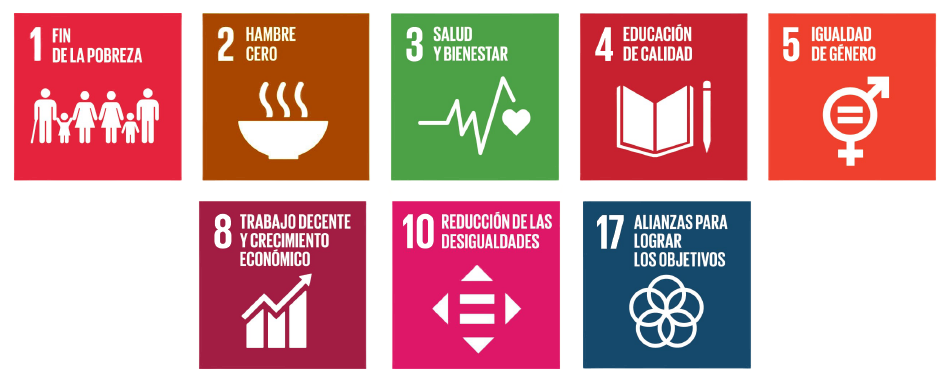
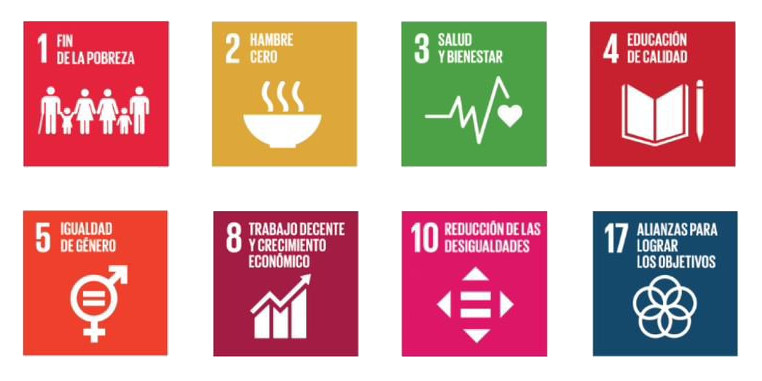
avanzando un poco con todo

diff --git a/src/index.css b/src/index.css
@@ -78,7 +78,7 @@ header .dropdown-item a{
 }
 main{
   min-height: 75dvh;
-  padding: 30px 0;
+  padding: 30px 0px;
 }
 main .dropdown-item{
   width: auto;
@@ -168,12 +168,26 @@ main a{
   font-weight: bold;
   transition: background-color .1s;
 }
+main .donar{
+  display: flex;
+  flex-direction: column;
+  justify-content: center;
+}
+main .donar a{
+  margin: 7px 0 0 50px;
+}
+main .anotate{
+  display: inline-block;
+}
 main .obras p{
-  padding: 0;
+  padding: 0 15px;
 }
 main .obras article{
   display: flex;
   flex-direction: column;
+}
+main .obras .dropdown-item{
+  margin: 0 0 0 25px;
 }
 main a:hover{
   background-color: #ffa434;
@@ -217,6 +231,13 @@ main .alone-fundacion .fundacion{
   gap: 20px;
   text-align: center;
 }
+main .alone-donar div{
+  margin: 0;
+  margin-bottom: 30px;
+}
+main .alone-donar div p{
+  margin: 0;
+}
 main section{
   margin-top: 0px;
 }
@@ -230,10 +251,41 @@ main .seParte{
   justify-content: center;
   gap: 10px;
 }
+main .ods{
+  width: 50%;
+  margin-bottom: 15px;
+}
+main .ods-banner{
+  width: 100%;
+}
 footer{
   box-shadow: 0 -5px 15px grey;
   background-color: #474746;
   padding: 20px 0;
+}
+footer #jpf{
+  text-decoration: none;
+  position: absolute;
+  width: 100%;
+  text-align: center;
+  font-family: "Special Elite";
+  color: black;
+  font-size: 15px;
+  padding: 10px 0;
+  background-color: #474746;
+}
+footer #jpf a{
+  color: #EE7D00;
+  text-decoration: none;
+  font-family: "Special Elite";
+  font-size: 15px;
+}
+footer .mapa{
+  height: 200px;
+  color: white;
+  display: flex;
+  flex-direction: column;
+  text-align: center;
 }
 footer .content{
   display: flex;
@@ -244,8 +296,7 @@ footer .content{
 }
 footer .redes{
   display: flex;
-  justify-content: center;
-  align-items: center;
+  flex-direction: column;
   gap: 20px;
   padding: 10px 0;
 }
@@ -258,9 +309,10 @@ footer nav a:hover{
 footer .nav-foot{
   display: flex;
   flex-wrap: wrap;
-  justify-content: space-evenly;
+  justify-content: space-between;
   align-items: center;
-  gap: 20px;
+  flex-direction: column;
+  gap: 15px;
 }
 footer .nav-foot img{
   width: 100px;
@@ -305,6 +357,9 @@ footer .logos{
   main .quienes{
     margin: 50px 50px 0 50px;
     padding: 20px 10px !important;
+  }
+  footer .nav-foot{
+    flex-direction: row;
   }
 }
 
@@ -355,7 +410,7 @@ footer .logos{
     transition: all .5s;
   }
   footer .redes{
-    flex-direction: row;
+    flex-direction: column;
     gap: 20px;
   }
   footer .nav-foot nav{
@@ -365,9 +420,10 @@ footer .logos{
   }
   footer .nav-foot{
     justify-content: space-evenly;
+    margin-bottom: 15px;
   }
   main{
-    min-height: 75dvh;
+    min-height: 59.3dvh;
   }
   header .donar:hover{
     color: black !important;

diff --git a/src/components/components/footer/Foot.jsx b/src/components/components/footer/Foot.jsx
@@ -11,18 +11,24 @@ const Foot = () => {
             <img src="/img/Logo3.png" alt="logo" />
           </div>
         </Link>
-        <nav>
-          <a href="">Inicio</a>
-          <a href="">Acerca de</a>
-          <a href="">Obras</a>
-          <a href="">Contacto</a>
-        </nav>
+        <div className="mapa">
+          <iframe className='mapa' src="https://www.google.com/maps/embed?pb=!1m18!1m12!1m3!1d3282.390590591876!2d-58.6251648!3d-34.6448375!2m3!1f0!2f0!3f0!3m2!1i1024!2i768!4f13.1!3m3!1m2!1s0x95bcb92a8aab6979%3A0x5e8435a0e0fcc9bc!2sFundaci%C3%B3n%20Casa%20de%20Jes%C3%BAs!5e0!3m2!1ses-419!2sar!4v1715813108321!5m2!1ses-419!2sar" allowfullscreen="" loading="lazy" referrerpolicy="no-referrer-when-downgrade"></iframe>
+          <div>
+            Adolfo Saldias 351
+          </div>
+        </div>
         <div className='redes'>
-          <a href="https://www.facebook.com/fundacioncasadejesus" target='_blank'><img className='red' src="/img/facebook-icon.png" alt="facebook" /></a>
-          <a href="https://www.instagram.com/fcasadejesus/?hl=es-la" target='_blank'><img className='red' src="/img/instagram-icon.png" alt="instagram" /></a>
-          <a href="https://twitter.com/fcasadejesus" target='_blank'><img className='red' src="/img/twitter-icon.png" alt="twitter" /></a>
+          <a href="tel:+5491140715733" target='_blank'><img className='red' src="/img/telefono.png" alt="telefono" /> 011-154071-5733</a>
+          <a href="mailto:info@casadejesus.org" target='_blank'><img className='red' src="/img/mail.png" alt="mail" /> info@casadejesus.org</a>
+          <a href="https://wa.me/+5491140715733" target='_blank'><img className='red' src="/img/whatsapp.png" alt="whatsapp" /> +54 9 11-4071-5733</a>
+        </div>
+        <div className='redes'>
+          <a href="https://www.facebook.com/fundacioncasadejesus" target='_blank'><img className='red' src="/img/facebook-icon.png" alt="facebook" /> /fundacioncasadejesus</a>
+          <a href="https://www.instagram.com/fcasadejesus/?hl=es-la" target='_blank'><img className='red' src="/img/instagram-icon.png" alt="instagram" /> @fcasadejesus</a>
+          <a href="https://twitter.com/fcasadejesus" target='_blank'><img className='red' src="/img/twitter-icon.png" alt="twitter" /> /fcasadejesus</a>
         </div>
       </div>
+      <p id="jpf">Desarrollado por <a href="https://juanpablofavale.github.io/Maqueta-Portfolio-2/" target="_blank">JPF</a></p>
     </footer>
   )
 }

diff --git a/src/components/components/articulo/Article.jsx b/src/components/components/articulo/Article.jsx
@@ -1,6 +1,7 @@
 import { useEffect, useState } from 'react';
 import './Article.css'
 import { server } from '../../../utils/axios.js'
+import { Link } from 'react-router-dom'
 
 const Article = ({menu, sub}) => {
   const [data, setData] = useState()
@@ -12,22 +13,38 @@ const Article = ({menu, sub}) => {
   return (
     <section className={'alone alone-' + sub}>
       {
-        data && data[menu][sub].portada && <img className='portada' src={data[menu][sub].portada} alt={"Logo " + data[menu][sub].titulo} />
+        data && data[menu][sub].portada && <><img className='portada' src={data[menu][sub].portada} alt={"Logo " + data[menu][sub].titulo} /><h1>{data[menu][sub].titulo}</h1></>
       }
       {
         data && !data[menu][sub].portada && <h1>{data[menu][sub].titulo}</h1>
       }
       <div className={sub}>
         {
-          data && data[menu][sub].parrafos && data[menu][sub].parrafos.map(p => <p>{p}</p>)
+          data && data[menu][sub].parrafos && data[menu][sub].parrafos.map(p => <p key={p}>{p}</p>)
         }
         {
           //console.log(data, sub, menu)
-          data && data[menu][sub].contenido && data[menu][sub].contenido.map(sb => {
+          data && sub!="donar" && data[menu][sub].contenido && data[menu][sub].contenido.map(sb => {
             return <div className='cont' key={sb.titulo}>
               <h4>{sb.subtitulo}</h4>
               {
                 sb.parrafos.map(p => <p key={p}>{p}</p>)
+              }
+            </div>
+          })
+        }
+        {
+          data && sub=="donar" && data[menu][sub].contenido && data[menu][sub].contenido.map(sb => {
+            return <div className='cont' key={sb.titulo}>
+              <h4>{sb.subtitulo}</h4>
+              {
+                sb.parrafos.map(p => <p key={p}>{p}</p>)
+              }
+              {
+                sb.link!="" && <Link to={sb.link} target='_blank'>Doná</Link>
+              }
+              {
+                sb.link=="" && <img src="/img/QR.png" alt="QR-MP"/>
               }
             </div>
           })

diff --git a/index.html b/index.html
@@ -7,6 +7,13 @@
     <meta name="viewport" content="width=device-width, initial-scale=1.0" />
     <link href="https://cdn.jsdelivr.net/npm/bootstrap@5.3.3/dist/css/bootstrap.min.css" rel="stylesheet" integrity="sha384-QWTKZyjpPEjISv5WaRU9OFeRpok6YctnYmDr5pNlyT2bRjXh0JMhjY6hW+ALEwIH" crossorigin="anonymous">
     <title>Fundación Casa de Jesús</title>
+    <link rel="preconnect" href="https://fonts.googleapis.com">
+    <link rel="preconnect" href="https://fonts.gstatic.com" crossorigin>
+    <link href="https://fonts.googleapis.com/css2?family=Alkatra&family=Comic+Neue&family=Dancing+Script&display=swap"
+        rel="stylesheet">
+    <link rel="preconnect" href="https://fonts.googleapis.com">
+    <link rel="preconnect" href="https://fonts.gstatic.com" crossorigin>
+    <link href="https://fonts.googleapis.com/css2?family=Special+Elite&display=swap" rel="stylesheet">
   </head>
   <body>
     <div id="root"></div>

diff --git a/src/data/Navigator.jsx b/src/data/Navigator.jsx
@@ -5,7 +5,7 @@ const NAVIGATOR = {
             link:"/",
         },
         {
-            name:"La Fundacion",
+            name:"Nosotros",
             link:"/about",
             sub:[
                 {
@@ -17,16 +17,16 @@ const NAVIGATOR = {
                     link:"/about/historia"
                 },
                 /*{
-                    name:"Nuestra Inspiración",
-                    link:"/about/inspiracion"
-                },
-                {
                     name:"Consejo de Administración",
                     link:"/about/administracion"
                 },*/
                 {
                     name:"Compromiso ODS",
                     link:"/about/compromiso"
+                },
+                {
+                    name:"Oracion",
+                    link:"/about/oracion"
                 }
             ],
         },

diff --git a/src/App.jsx b/src/App.jsx
@@ -20,6 +20,7 @@ function App() {
       {path: '/works/francisco', element: <Article menu="obras" sub="francisco"/>},
       {path: '/works/teresita', element: <Article menu="obras" sub="teresita"/>},
       {path: '/about/fundacion', element: <Article menu="fundacion" sub="fundacion"/>},
+      {path: '/about/oracion', element: <Article menu="fundacion" sub="oracion"/>},
       {path: '/about/historia', element: <Article menu="fundacion" sub="historia"/>},
       {path: '/about/inspiracion', element: <Article menu="fundacion" sub="inspiracion"/>},
       {path: '/about/administracion', element: <Article menu="fundacion" sub="administracion"/>},

diff --git a/src/components/pages/home/Home.jsx b/src/components/pages/home/Home.jsx
@@ -65,12 +65,9 @@ const Home = () => {
           </article>
         </div>
       </section>
-      <section>
-        <h2>Banner Como donar</h2>
-      </section>
       <section className='seParte'>
         <img className='bannerSeParte' src="/img/SeParte.png" alt="Banner Se Parte" />
-        <NavLnk lnk="/works/teresita" name="Mas información"/>
+        <NavLnk lnk="/participate/donar" name="Mas información"/>
       </section>
       <section>
         <h2>Destacado</h2>
